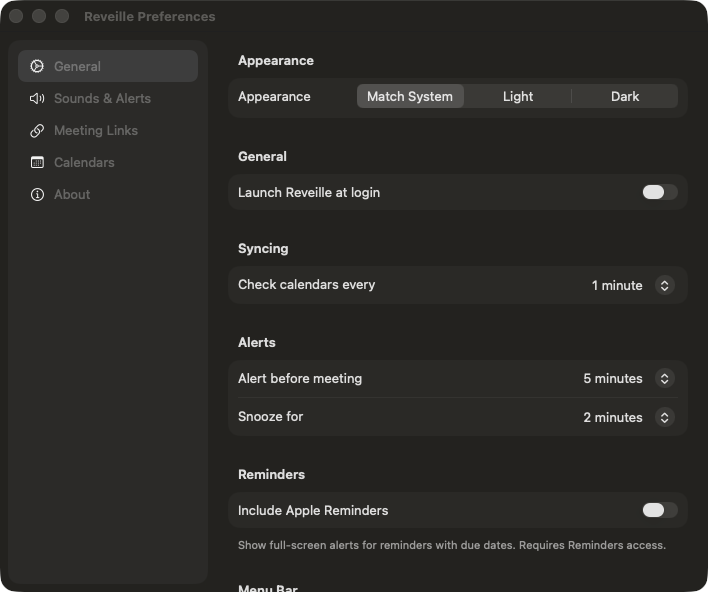
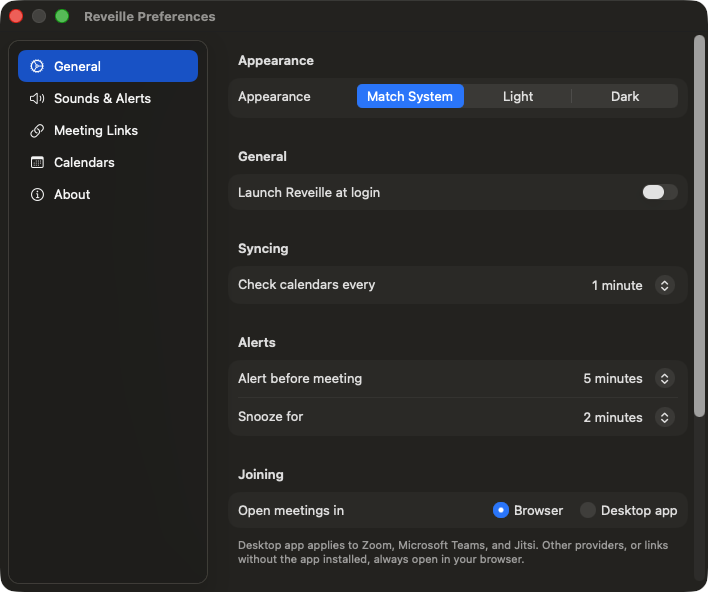
Add 'open meetings in desktop app vs browser' preference (closes #9)
New Preferences > General > Joining picker: Browser (default) or Desktop app.

Rewriting lives in the tested package (MeetingLink/NativeAppLink.swift) with
17 XCTests, and is deliberately conservative:
- Gated on MeetingLinkDetector.provider(for:) first, so the host allowlist
  remains the single gate — an unvalidated URL is never rewritten. Tests
  cover the substring-injection, suffix-spoof and http-downgrade cases
  producing no native URL either.
- Native URLs are built from parsed components (meeting id, path, query),
  never by string-substituting a scheme onto attacker-influenced text, so a
  crafted link can't smuggle content into the constructed scheme URL.
- Zoom only rewrites numeric-id links (/j//s//w/ + digits); personal-room
  links and non-numeric ids fall back to the browser rather than being
  guessed at. Teams only rewrites /l/meetup-join/ deep links.
- Only Zoom (zoommtg:), Teams (msteams:) and Jitsi (jitsi-meet:) have
  documented, stable desktop schemes. The rest return nil = use the browser;
  that's the correct outcome, not a gap.

App side: a single openMeeting(_:) helper now serves both join paths (alert
Join and agenda-popover Join). It falls back to the browser when the user
prefers it, when there's no native equivalent, OR when no installed app
claims the scheme — without that last guard, picking 'Desktop app' without
the client installed would make Join silently do nothing.

Verified: 50/50 package tests pass (21 detector + 12 scheduling + 17
[…]

diff --git a/MeetingLink/Sources/MeetingLink/NativeAppLink.swift b/MeetingLink/Sources/MeetingLink/NativeAppLink.swift
@@ -1,0 +1,105 @@
+import Foundation
+
+/// Rewrites an already-validated meeting link into the provider's native-app
+/// URL scheme, for users who prefer joining in the desktop client rather than
+/// a browser tab.
+///
+/// Security notes:
+/// - Rewriting only happens for URLs that already passed
+///   `MeetingLinkDetector.provider(for:)` — the host allowlist stays the single
+///   gate. This type never inspects an unvalidated URL.
+/// - Native URLs are built from *parsed components* (meeting id, path, query),
+///   never by string-substituting the scheme on an attacker-influenced string,
+///   so a crafted link can't smuggle content into the constructed scheme URL.
+/// - Returning `nil` means "no reliable native equivalent — use the browser."
+///   That's the correct outcome for providers without a documented desktop
+///   scheme, not a gap to paper over with guesses.
+public enum NativeAppLink {
+
+    /// The native-app equivalent of a meeting URL, or nil if this provider has
+    /// no reliable desktop scheme (or the link isn't in a rewritable form).
+    public static func nativeURL(for url: URL) -> URL? {
+        // Gate on the allowlist first. Unvalidated URLs are never rewritten.
+        guard let provider = MeetingLinkDetector.provider(for: url) else { return nil }
+
+        switch provider.name {
+        case "Zoom":
+            return zoomURL(from: url)
+        case "Microsoft Teams":
+            return teamsURL(from: url)
+        case "Jitsi":
+            return jitsiURL(from: url)
+        default:
+            // Google Meet, Slack, Discord, Webex, GoToMeeting, Whereby,
+            // RingCentral, BlueJeans, Skype: no documented, stable desktop
+            // join scheme we can construct safely. Browser is correct.
+            return nil
+        }
+    }
+
+    /// Whether a native rewrite exists for this URL.
+    public static func hasNativeURL(for url: URL) -> Bool {
+        nativeURL(for: url) != nil
+    }
+
+    // MARK: - Per-provider rewrites
+
+    /// zoommtg://zoom.us/join?confno=<id>[&pwd=<pwd>]
+    ///
+    /// Only rewrites numeric-meeting-id links (/j/, /s/, /w/). Personal-room
+    /// links (/my/<name>) aren't meeting numbers, so they fall back to the
+    /// browser rather than being guessed at.
+    private static func zoomURL(from url: URL) -> URL? {
+        let parts = url.pathComponents.filter { $0 != "/" }
+        guard parts.count >= 2 else { return nil }
+        let kind = parts[0].lowercased()
+        guard ["j", "s", "w"].contains(kind) else { return nil }
+
+        let id = parts[1]
+        // Meeting ids are digits only — reject anything else outright rather
+        // than forwarding arbitrary text into the scheme URL.
+        guard !id.isEmpty, id.allSatisfy({ $0.isNumber }) else { return nil }
+
+        var components = URLComponents()
+        components.scheme = "zoommtg"
+        components.host = "zoom.us"
+        components.path = "/join"
+
+        var query = [URLQueryItem(name: "confno", value: id)]
+        if let pwd = URLComponents(url: url, resolvingAgainstBaseURL: false)?
+            .queryItems?.first(where: { $0.name.lowercased() == "pwd" })?.value,
+            !pwd.isEmpty {
+            query.append(URLQueryItem(name: "pwd", value: pwd))
+        }
+        components.queryItems = query
+
+        return components.url
+    }
+
+    /// msteams:/l/meetup-join/<rest> — Microsoft's documented deep-link form.
+    /// Only meetup-join links are rewritten; other Teams URLs go to the browser.
+    private static func teamsURL(from url: URL) -> URL? {
+        guard url.path.hasPrefix("/l/meetup-join/") else { return nil }
+
+        var components = URLComponents()
+        components.scheme = "msteams"
+        components.path = url.path
+        components.query = url.query
+
+        return components.url
+    }
+
+    /// jitsi-meet://<host>/<room> — the Jitsi Meet desktop app's scheme.
+    private static func jitsiURL(from url: URL) -> URL? {
+        guard let host = url.host, !host.isEmpty else { return nil }
+        let room = url.pathComponents.filter { $0 != "/" }
+        guard !room.isEmpty else { return nil }
+
+        var components = URLComponents()
+        components.scheme = "jitsi-meet"
+        components.host = host
+        components.path = "/" + room.joined(separator: "/")
+
+        return components.url
+    }
+}

diff --git a/MeetingLink/Tests/MeetingLinkTests/NativeAppLinkTests.swift b/MeetingLink/Tests/MeetingLinkTests/NativeAppLinkTests.swift
@@ -1,0 +1,107 @@
+import XCTest
+@testable import MeetingLink
+
+final class NativeAppLinkTests: XCTestCase {
+
+    private func native(_ s: String) -> String? {
+        guard let url = URL(string: s) else { return nil }
+        return NativeAppLink.nativeURL(for: url)?.absoluteString
+    }
+
+    // MARK: Zoom
+
+    func testZoomJoinLinkRewrites() {
+        XCTAssertEqual(native("https://zoom.us/j/1234567890"),
+                       "zoommtg://zoom.us/join?confno=1234567890")
+    }
+
+    func testZoomSubdomainRewritesToCanonicalHost() {
+        XCTAssertEqual(native("https://us02web.zoom.us/j/9876543210"),
+                       "zoommtg://zoom.us/join?confno=9876543210")
+    }
+
+    func testZoomPasswordIsCarriedThrough() {
+        let out = native("https://zoom.us/j/1234567890?pwd=SeCrEt123")
+        XCTAssertEqual(out, "zoommtg://zoom.us/join?confno=1234567890&pwd=SeCrEt123")
+    }
+
+    func testZoomSAndWPathsRewrite() {
+        XCTAssertEqual(native("https://zoom.us/s/555"), "zoommtg://zoom.us/join?confno=555")
+        XCTAssertEqual(native("https://zoom.us/w/777"), "zoommtg://zoom.us/join?confno=777")
+    }
+
+    /// Personal-room links aren't meeting numbers — browser fallback is correct.
+    func testZoomPersonalRoomFallsBackToBrowser() {
+        XCTAssertNil(native("https://zoom.us/my/alexroom"))
+    }
+
+    /// Non-numeric ids are rejected rather than forwarded into the scheme URL.
+    func testZoomNonNumericIdRejected() {
+        XCTAssertNil(native("https://zoom.us/j/notanumber"))
+        XCTAssertNil(native("https://zoom.us/j/123abc"))
+    }
+
+    func testZoomBareDomainNoPathFallsBack() {
+        XCTAssertNil(native("https://zoom.us/"))
+    }
+
+    // MARK: Microsoft Teams
+
+    func testTeamsMeetupJoinRewrites() {
+        let out = native("https://teams.microsoft.com/l/meetup-join/19%3ameeting_abc/0?context=%7b%22Tid%22%3a%22x%22%7d")
+        XCTAssertNotNil(out)
+        XCTAssertTrue(out!.hasPrefix("msteams:/l/meetup-join/"), "got \(out!)")
+        XCTAssertTrue(out!.contains("context="), "query should be preserved")
+    }
+
+    func testTeamsNonMeetingPathFallsBack() {
+        XCTAssertNil(native("https://teams.microsoft.com/_#/conversations/general"))
+    }
+
+    // MARK: Jitsi
+
+    func testJitsiRewrites() {
+        XCTAssertEqual(native("https://meet.jit.si/ReveilleStandup"),
+                       "jitsi-meet://meet.jit.si/ReveilleStandup")
+    }
+
+    func testJitsiNoRoomFallsBack() {
+        XCTAssertNil(native("https://meet.jit.si/"))
+    }
+
+    // MARK: Providers with no reliable desktop scheme → browser
+
+    func testProvidersWithoutNativeSchemeReturnNil() {
+        XCTAssertNil(native("https://meet.google.com/abc-defg-hij"))
+        XCTAssertNil(native("https://myteam.slack.com/archives/x"))
+        XCTAssertNil(native("https://discord.gg/abcd"))
+        XCTAssertNil(native("https://acme.webex.com/meet/alex"))
+        XCTAssertNil(native("https://whereby.com/room"))
+    }
+
+    // MARK: Security — rewriting is gated on the allowlist
+
+    /// The substring-injection attack must not produce a native URL either.
+    func testRejectsSubstringInjection() {
+        XCTAssertNil(native("https://evil.example/j/1234567890?r=https://zoom.us/"))
+    }
+
+    /// Suffix-spoofed host must not be rewritten.
+    func testRejectsSuffixSpoof() {
+        XCTAssertNil(native("https://zoom.us.evil.example/j/1234567890"))
+    }
+
+    /// http must not be rewritten (the detector rejects it upstream).
+    func testRejectsHTTPDowngrade() {
+        XCTAssertNil(native("http://zoom.us/j/1234567890"))
+    }
+
+    func testRejectsNonMeetingURL() {
+        XCTAssertNil(native("https://example.com/j/1234567890"))
+    }
+
+    func testHasNativeURLConvenience() {
+        XCTAssertTrue(NativeAppLink.hasNativeURL(for: URL(string: "https://zoom.us/j/1")!))
+        XCTAssertFalse(NativeAppLink.hasNativeURL(for: URL(string: "https://meet.google.com/x")!))
+    }
+}

diff --git a/MacAlert/SettingsView.swift b/MacAlert/SettingsView.swift
@@ -22,6 +22,15 @@ class SettingsManager: ObservableObject {
         }
     }
 
+    /// Whether Join opens the provider's desktop app (when one exists and is
+    /// installed) instead of the browser. Falls back to the browser
+    /// automatically when there's no native equivalent.
+    @Published var openInNativeApp: Bool {
+        didSet {
+            UserDefaults.standard.set(openInNativeApp, forKey: "openInNativeApp")
+        }
+    }
+
     /// Whether Reveille registers itself to start at login. Backed by
     /// SMAppService rather than a UserDefault — the system is the source of
     /// truth (the user can also toggle it in System Settings > General >
@@ -108,6 +117,7 @@ class SettingsManager: ObservableObject {
         self.syncInterval = UserDefaults.standard.object(forKey: "syncInterval") as? Int ?? 60
         self.alertMinutesBefore = UserDefaults.standard.object(forKey: "alertMinutesBefore") as? Int ?? 5
         self.snoozeMinutes = UserDefaults.standard.object(forKey: "snoozeMinutes") as? Int ?? 2
+        self.openInNativeApp = UserDefaults.standard.object(forKey: "openInNativeApp") as? Bool ?? false
         self.launchAtLogin = (SMAppService.mainApp.status == .enabled)
         self.soundEnabled = UserDefaults.standard.object(forKey: "soundEnabled") as? Bool ?? true
         self.soundVolume = UserDefaults.standard.object(forKey: "soundVolume") as? Double ?? 0.7
@@ -322,6 +332,18 @@ struct GeneralSettingsView: View {
                     Text("10 minutes").tag(10)
                     Text("15 minutes").tag(15)
                 }
+            }
+
+            Section {
+                Picker("Open meetings in", selection: $settings.openInNativeApp) {
+                    Text("Browser").tag(false)
+                    Text("Desktop app").tag(true)
+                }
+                .pickerStyle(.inline)
+            } header: {
+                Text("Joining")
+            } footer: {
+                Text("Desktop app applies to Zoom, Microsoft Teams, and Jitsi. Other providers, or links without the app installed, always open in your browser.")
             }
 
             Section {

diff --git a/MacAlert/MacAlertApp.swift b/MacAlert/MacAlertApp.swift
@@ -292,7 +292,7 @@ class AppDelegate: NSObject, NSApplicationDelegate {
             onJoin: { [weak self] event in
                 self?.agendaPopover?.performClose(nil)
                 if let url = self?.findMeetingURL(in: event) {
-                    NSWorkspace.shared.open(url)
+                    self?.openMeeting(url)
                 }
             },
             onQuickAdd: { [weak self] in
@@ -515,7 +515,7 @@ class AppDelegate: NSObject, NSApplicationDelegate {
         switch action {
         case .join:
             if let url = findMeetingURL(in: event) {
-                NSWorkspace.shared.open(url)
+                openMeeting(url)
             }
             closeAlert()
         case .snooze:
@@ -600,6 +600,22 @@ class AppDelegate: NSObject, NSApplicationDelegate {
         }
 
         return nil
+    }
+
+    /// Opens an already-validated meeting link, honoring the "open meetings in"
+    /// preference. Falls back to the browser whenever the desktop route isn't
+    /// viable: the user prefers the browser, the provider has no native scheme,
+    /// or nothing installed claims that scheme. Without that last check,
+    /// choosing "Desktop app" without the client installed would make Join
+    /// appear to do nothing.
+    func openMeeting(_ url: URL) {
+        if settings.openInNativeApp,
+           let native = NativeAppLink.nativeURL(for: url),
+           NSWorkspace.shared.urlForApplication(toOpen: native) != nil {
+            NSWorkspace.shared.open(native)
+            return
+        }
+        NSWorkspace.shared.open(url)
     }
 
     func handleReminderAction(_ action: AlertAction, for reminder: EKReminder) {

diff --git a/CHANGELOG.md b/CHANGELOG.md
@@ -7,6 +7,9 @@ and this project adheres to [Semantic Versioning](https://semver.org/spec/v2.0.0
 
 ## [Unreleased]
 
+### Added
+- "Open meetings in" preference (Preferences → General → Joining): join in the provider's desktop app instead of a browser tab. Supports Zoom, Microsoft Teams, and Jitsi; anything else — or a link whose desktop app isn't installed — opens in your browser as before.
+
 ## [0.1.5] - 2026-07-27
 
 ### Added
